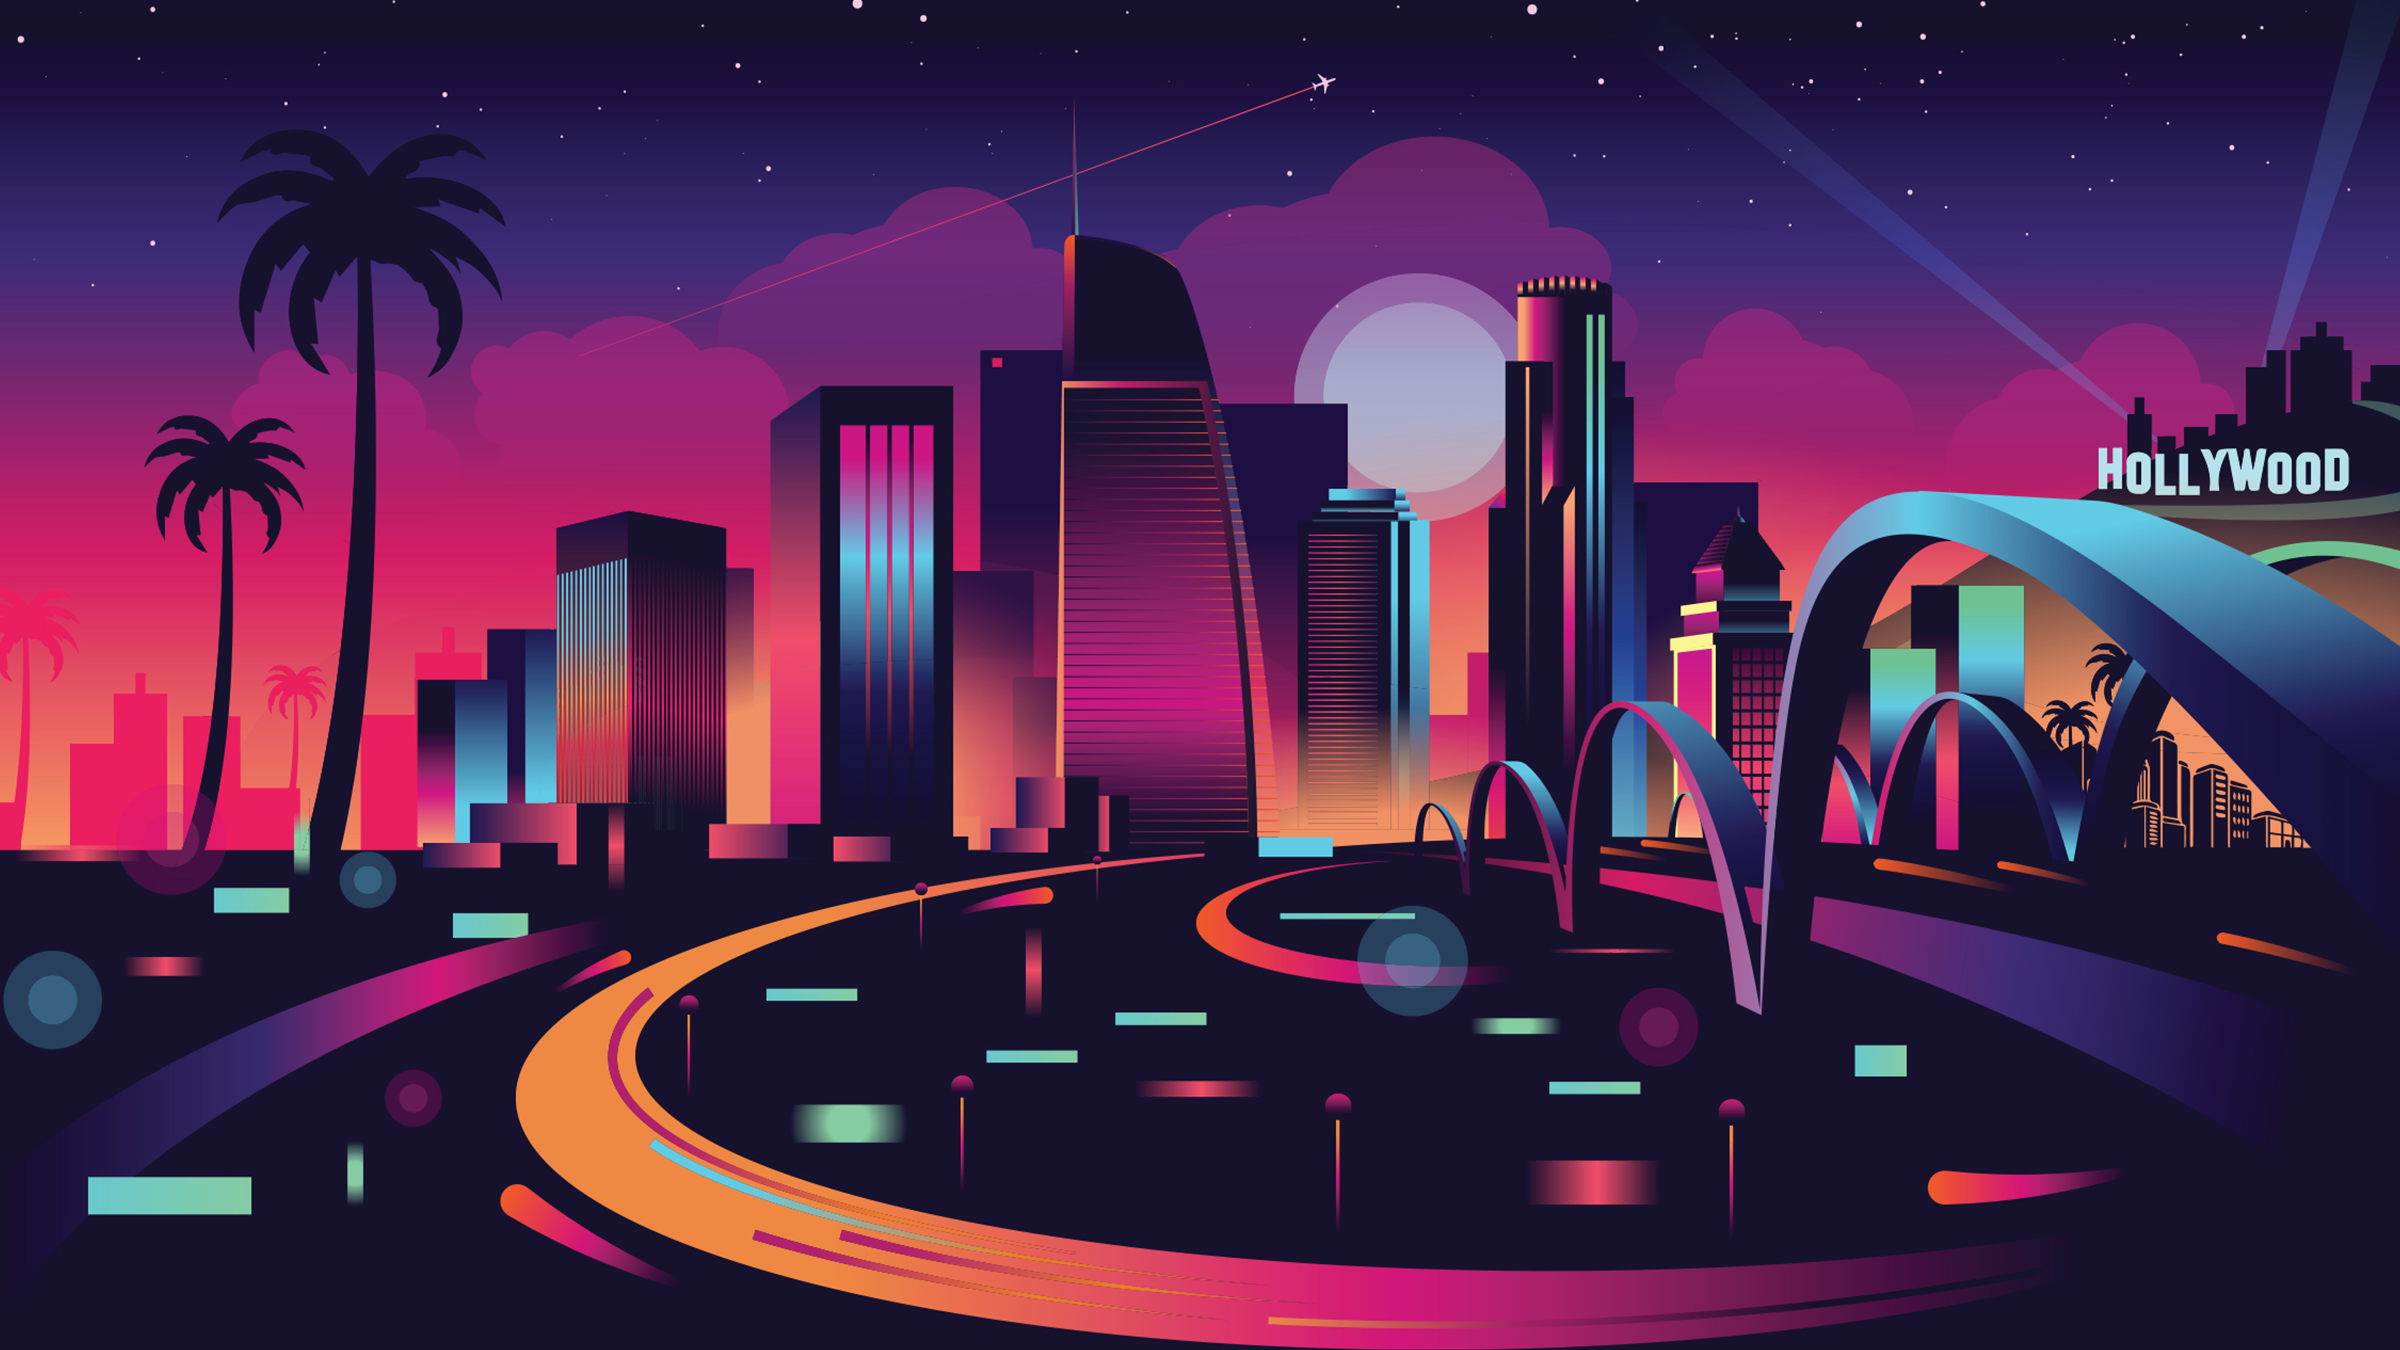
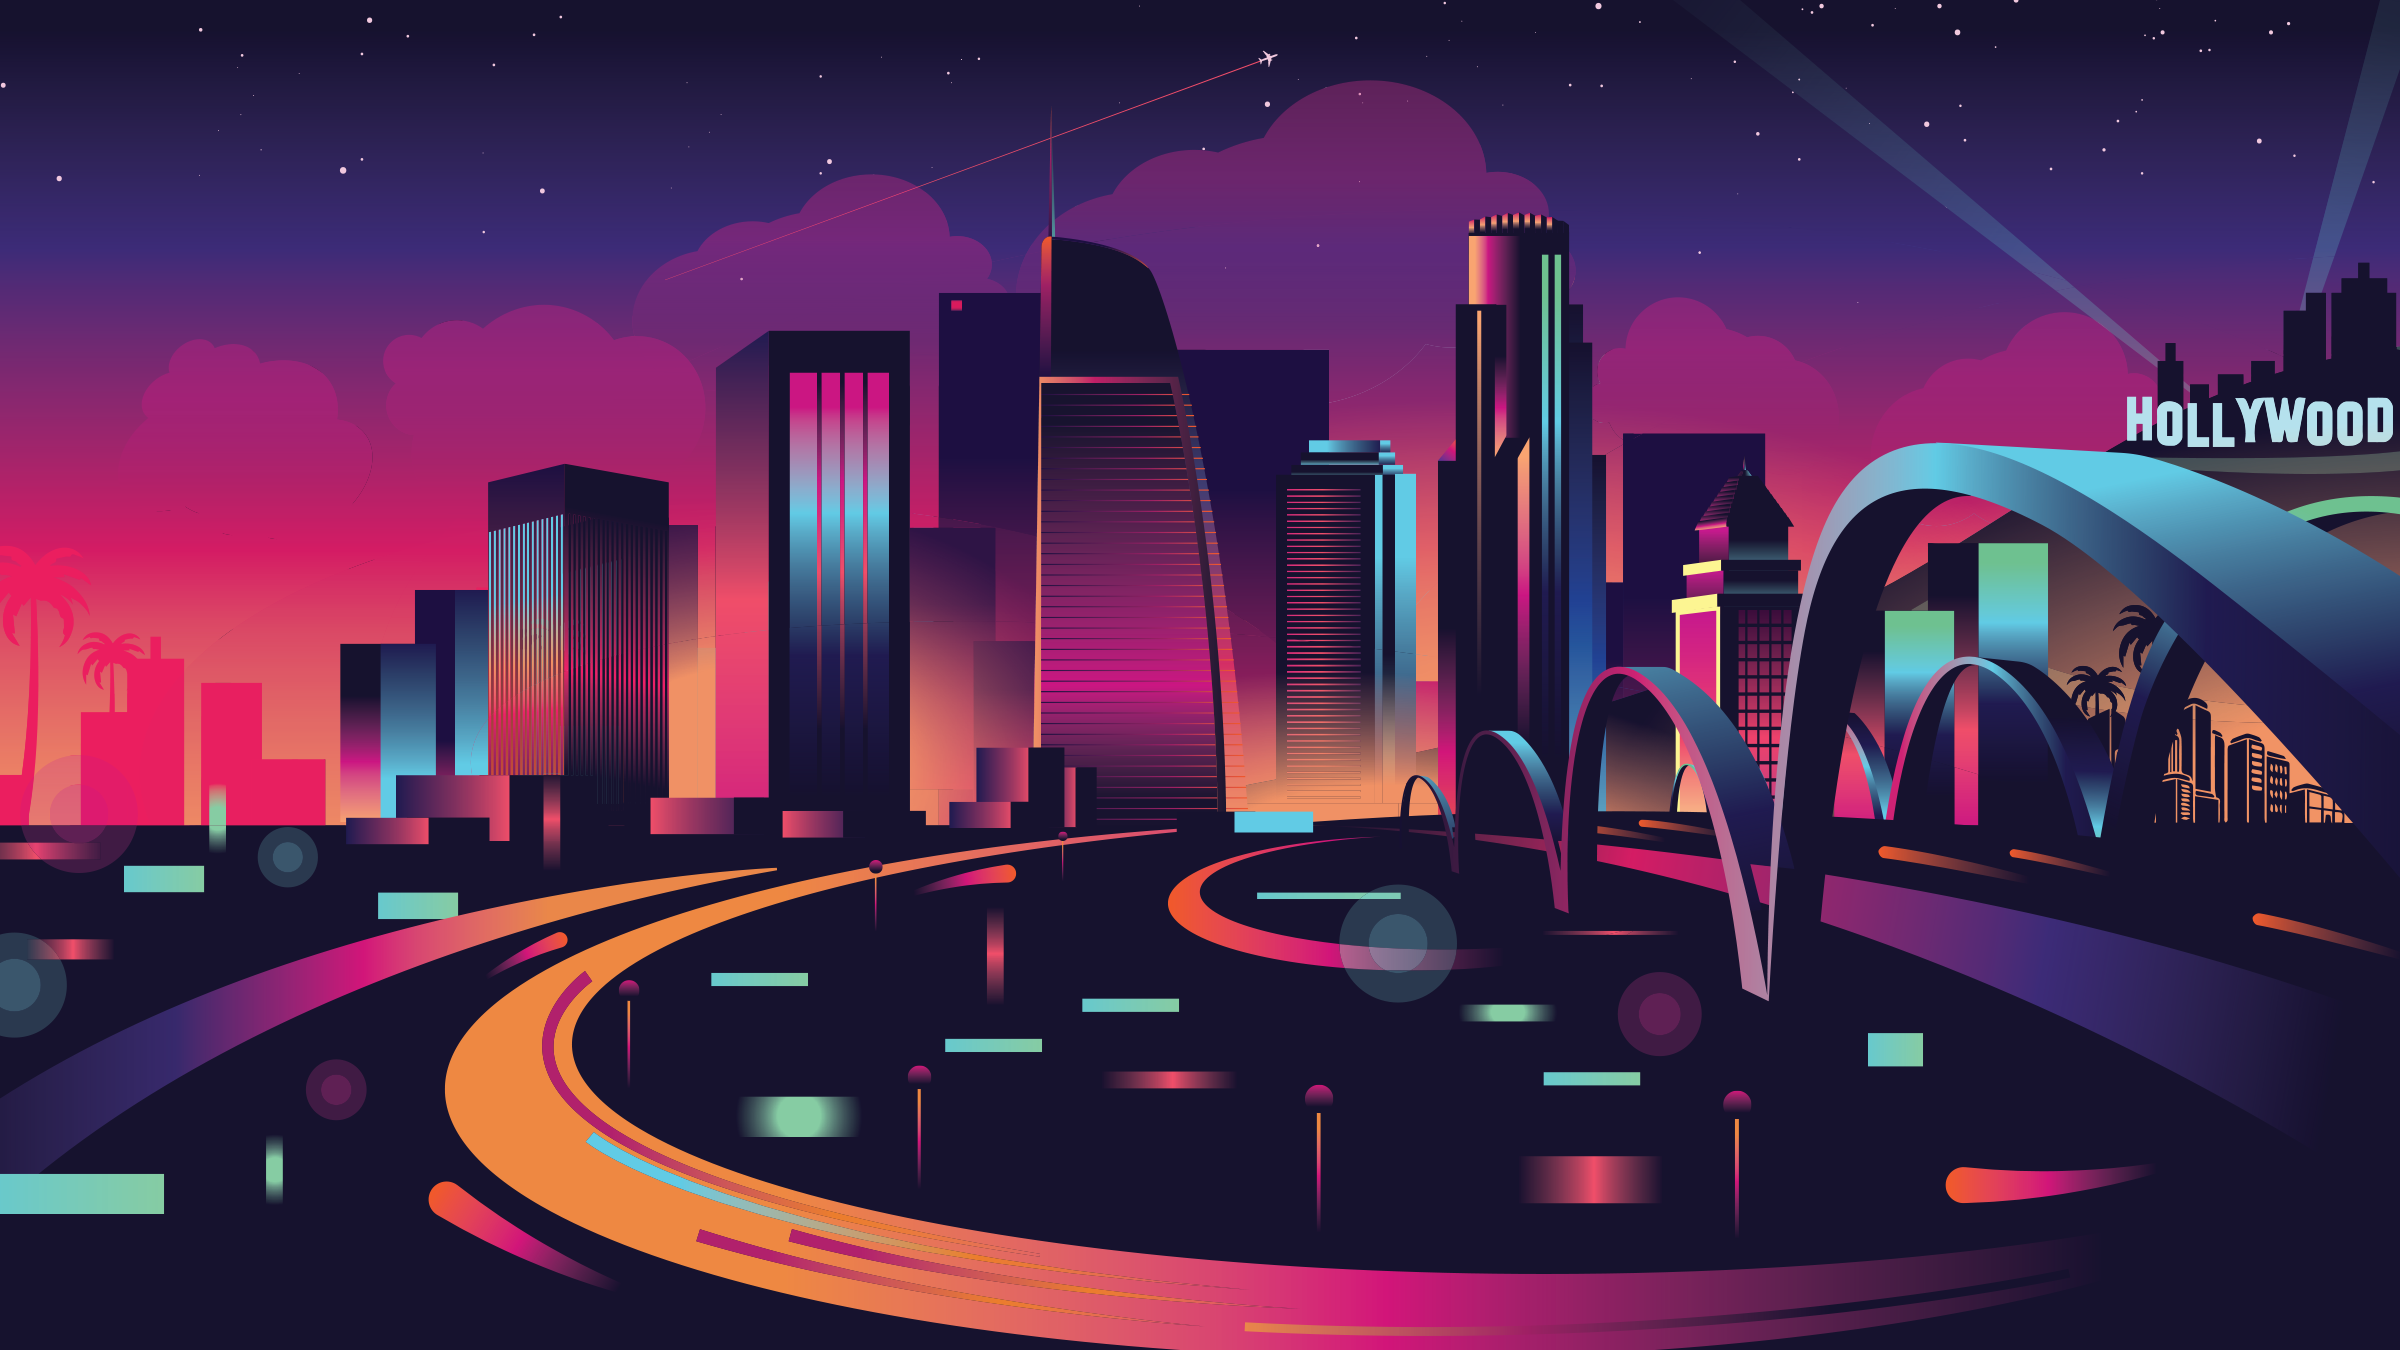
Update resume

diff --git a/app/(public)/portfolio/page.tsx b/app/(public)/portfolio/page.tsx
@@ -81,47 +81,66 @@ export default function ResumePage() {
 
   const { scrollYProgress } = useScroll({
     target: containerRef,
-    offset: ["start start", "end start"],
+    offset: ["start start", "end end"],
   });
 
-  // Background moves slower (parallax effect)
-  const backgroundY = useTransform(scrollYProgress, [0, 1], ["0%", "-10%"]);
-  const backgroundScale = useTransform(scrollYProgress, [0, 1], [1, 1.2]);
+  // Parallax moves during first 50% of scroll, then stops
+  const backgroundY = useTransform(
+    scrollYProgress,
+    [0, 0.5, 1],
+    ["0%", "-15%", "-15%"],
+  );
+  const backgroundScale = useTransform(
+    scrollYProgress,
+    [0, 0.5, 1],
+    [1, 1.1, 1.1],
+  );
 
-  // Hero content fades and moves up as you scroll
-  const heroOpacity = useTransform(scrollYProgress, [0, 0.3], [1, 0]);
-  const heroY = useTransform(scrollYProgress, [0, 0.3], ["0%", "-20%"]);
+  // Hero fades out earlier
+  const heroOpacity = useTransform(scrollYProgress, [0, 0.15], [1, 0]);
+  const heroY = useTransform(scrollYProgress, [0, 0.15], ["0%", "-20%"]);
 
   return (
     <main ref={containerRef} className="min-h-screen bg-slate-950 relative">
-      {/* Parallax Background Image */}
-      <motion.div
-        className="fixed inset-0 w-full h-full"
-        style={{ y: backgroundY, scale: backgroundScale }}
-      >
-        <Image
-          src="/la-art.webp"
-          alt="Los Angeles Skyline"
-          fill
-          className="object-cover object-center"
-          priority
-        />
-        <div className="absolute inset-0 bg-slate-950/40" />
-      </motion.div>
+      {/* Parallax Background - Fixed but with movement effect */}
+      <div className="fixed inset-0 w-full h-full overflow-hidden pointer-events-none">
+        <motion.div
+          className="absolute inset-0 w-full h-full will-change-transform"
+          style={{ y: backgroundY, scale: backgroundScale }}
+        >
+          {/* Mobile image */}
+          <Image
+            src="/la-art-mobile.png"
+            alt="Los Angeles Skyline"
+            fill
+            className="object-cover object-center md:hidden"
+            priority
+          />
+          {/* Desktop image */}
+          <Image
+            src="/la-art.png"
+            alt="Los Angeles Skyline"
+            fill
+            className="object-cover object-center hidden md:block"
+            priority
+          />
+          <div className="absolute inset-0 bg-slate-950/40" />
+        </motion.div>
+      </div>
 
       {/* Hero Section with fade effect */}
       <motion.section
-        className="relative z-10 min-h-[60vh] flex items-end"
+        className="relative z-10 min-h-auto md:min-h-[60vh] hidden md:flex items-end"
         style={{ opacity: heroOpacity, y: heroY }}
       >
-        <div className="max-w-5xl mx-auto px-6 pb-24 pt-32 w-full">
+        <div className="max-w-5xl mx-auto px-6 pb-12 md:pb-24 pt-12 md:pt-32 w-full">
           <div className="flex flex-col md:flex-row md:items-end md:justify-between gap-8">
-            <div className="space-y-4">
+            <div className="">
               <motion.h1
                 initial={{ opacity: 0, y: 20 }}
                 animate={{ opacity: 1, y: 0 }}
                 transition={{ duration: 0.6 }}
-                className="text-5xl md:text-6xl font-bold tracking-tight text-white drop-shadow-lg"
+                className="text-3xl md:text-5xl font-bold tracking-tight text-white drop-shadow-lg"
               >
                 Tommy Vong
               </motion.h1>
@@ -129,7 +148,7 @@ export default function ResumePage() {
                 initial={{ opacity: 0, y: 20 }}
                 animate={{ opacity: 1, y: 0 }}
                 transition={{ duration: 0.6, delay: 0.1 }}
-                className="text-xl text-slate-300"
+                className="text-md md:text-xl text-slate-500"
               >
                 Full-Stack Developer & Designer
               </motion.p>
@@ -137,7 +156,7 @@ export default function ResumePage() {
                 initial={{ opacity: 0, y: 20 }}
                 animate={{ opacity: 1, y: 0 }}
                 transition={{ duration: 0.6, delay: 0.2 }}
-                className="flex flex-wrap gap-3 text-sm text-slate-400"
+                className="flex flex-wrap gap-3 text-sm text-slate-400 mt-4"
               >
                 <span className="flex items-center gap-1.5 bg-slate-800/60 backdrop-blur-sm border border-slate-700/50 rounded-full px-3 py-1.5">
                   <MapPin className="w-4 h-4 text-violet-400" />
@@ -158,7 +177,7 @@ export default function ResumePage() {
               initial={{ opacity: 0, y: 20 }}
               animate={{ opacity: 1, y: 0 }}
               transition={{ duration: 0.6, delay: 0.3 }}
-              href="/TommyVong-Resume-2025.pdf"
+              href="/TommyVong-Resume-2026.pdf"
               download
               className="inline-flex items-center gap-2 bg-violet-500 text-white px-6 py-3 rounded-full font-medium hover:bg-violet-600 transition w-fit shadow-lg shadow-violet-500/25"
             >
@@ -170,7 +189,7 @@ export default function ResumePage() {
       </motion.section>
 
       {/* Glassmorphic Resume Content */}
-      <section className="relative z-10">
+      <section className="relative z-10 mt-54 md:mt-0 z-10">
         <motion.div
           initial={{ y: 100 }}
           animate={{ y: 0 }}
@@ -244,7 +263,7 @@ export default function ResumePage() {
                               delay: index * 0.1 + skillIndex * 0.05 + 0.1,
                             }}
                           >
-                            <Check className="w-4 h-4 text-violet-500" />
+                            <Check className="w-4 h-4 text-cyan-300" />
                           </motion.span>
                           {skill}
                         </motion.li>
@@ -275,7 +294,7 @@ export default function ResumePage() {
                   whileInView={{ opacity: 1, y: 0 }}
                   viewport={{ once: true, margin: "-50px" }}
                   transition={{ duration: 0.6, delay: index * 0.1 }}
-                  className="relative pl-8 border-l-2 border-slate-700"
+                  className="relative pl-8 border-l-2 border-violet-300/10"
                 >
                   <div className="absolute -left-[9px] top-0 w-4 h-4 rounded-full bg-violet-500 shadow-lg shadow-violet-500/50" />
                   <div className="space-y-3">
@@ -382,7 +401,7 @@ export default function ResumePage() {
                   Get in touch
                 </a>
                 <a
-                  href="/TommyVong-Resume-2025.pdf"
+                  href="/TommyVong-Resume-2026.pdf"
                   download
                   className="inline-flex items-center gap-2 border border-slate-700 text-slate-300 px-6 py-3 rounded-full font-medium hover:bg-slate-800 transition"
                 >

diff --git a/components/NewsletterForm.tsx b/components/NewsletterForm.tsx
@@ -16,7 +16,7 @@ export function NewsletterForm() {
   }
 
   return (
-    <div className="flex justify-center p-8 bg-gray-200 mt-auto">
+    <div className="flex justify-center p-8 bg-gray-200 mt-auto z-10">
       <form action={action} className="flex gap-2 max-w-sm">
         <input
           type="email"

diff --git a/app/layout.tsx b/app/layout.tsx
@@ -32,8 +32,8 @@ export default function RootLayout({
       >
         <Header />
         {children}
-        <NewsletterForm />
-        <Footer />
+        {/* <NewsletterForm />
+        <Footer /> */}
       </body>
     </html>
   );
